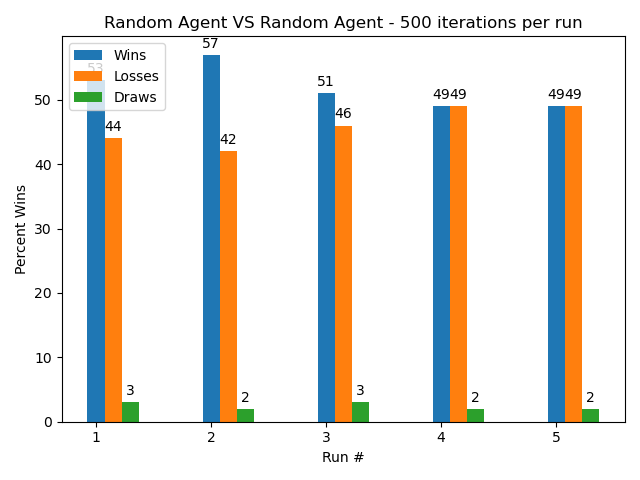
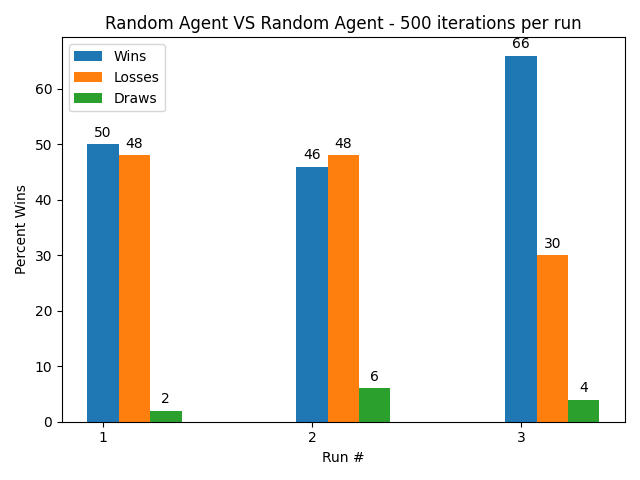
plugged in heuristic to min max function and made adjustments

diff --git a/heuristics.py b/heuristics.py
@@ -8,38 +8,41 @@ class Heuristic(Enum):
     Side_By_Side_Pawns = 2
     Distance_From_Starting_Location = 3
     Stacked_Pawns = 4
+    Piece_Could_Be_Captured = 5
 
 
 class Heuristics: 
     def __init__(self, list_of_heuristics: list(Heuristic) ):
         self.List_of_Heuristics: list(Heuristic) = list_of_heuristics
 
-    def return_heuristic_value(self, board: Board, player_color: chess.Color):
+    def return_heuristic_value(self, board: Board):
         matrix_board = self.create_matrix_from_board(board)
         heuristic_value: int = 0
         for heuristic in self.List_of_Heuristics: 
                 if heuristic == Heuristic.Maximize_Number_Of_Pieces:
-                    heuristic_value += self.number_of_pieces_greater_than_opponent(board, player_color)
+                    heuristic_value += self.number_of_pieces_greater_than_opponent(board)
                 elif heuristic == Heuristic.Keep_Pawns_Diagonally_Supported:
-                    heuristic_value += self.pawn_chain_support(matrix_board, player_color)
+                    heuristic_value += self.pawn_chain_support(matrix_board)
                 elif heuristic == Heuristic.Side_By_Side_Pawns:
-                    heuristic_value += self.pawn_side_by_side_support(matrix_board, player_color)
+                    heuristic_value += self.pawn_side_by_side_support(matrix_board)
                 elif heuristic == Heuristic.Distance_From_Starting_Location:
-                    heuristic_value += self.distance_from_opposite_side_of_board(matrix_board, player_color)
+                    heuristic_value += self.distance_from_opposite_side_of_board(matrix_board)
                 elif heuristic == Heuristic.Stacked_Pawns:
-                    heuristic_value += self.number_of_stacked_pawns(matrix_board, player_color)
+                    heuristic_value += self.number_of_stacked_pawns(matrix_board)
+                elif heuristic == Heuristic.Piece_Could_Be_Captured:
+                    heuristic_value += self.is_piece_at_risk(matrix_board)
         return heuristic_value
 
 
 
-    def number_of_pieces_greater_than_opponent(self, board: List, player_color: chess.Color):
+    def number_of_pieces_greater_than_opponent(self, board: List):
         # Takes the number of pawns and queens of the Player and subtracts the opponents pieces
-        number_of_pawns: int = len(board.pieces(chess.PAWN, player_color)) * 1
-        number_of_queens: int = len(board.pieces(chess.QUEEN, player_color)) * 10
-        number_of_opponent_pawns: int = len(board.pieces(chess.PAWN, (chess.WHITE if player_color == chess.BLACK else chess.BLACK))) * 1
-        number_of_opponent_queens: int = len(board.pieces(chess.QUEEN, (chess.WHITE if player_color == chess.BLACK else chess.BLACK))) * 10
+        number_of_pawns: int = len(board.pieces(chess.PAWN, chess.WHITE)) * 1
+        number_of_queens: int = len(board.pieces(chess.QUEEN, chess.WHITE)) * 100
+        number_of_opponent_pawns: int = len(board.pieces(chess.PAWN, chess.BLACK)) * 1
+        number_of_opponent_queens: int = len(board.pieces(chess.QUEEN, chess.BLACK)) * 100
 
-        return (number_of_pawns + number_of_queens) - (number_of_opponent_pawns + number_of_opponent_queens)
+        return ((number_of_pawns + number_of_queens) - (number_of_opponent_pawns + number_of_opponent_queens))
 
 
     def create_matrix_from_board(self, board: Board):
@@ -59,60 +62,67 @@ class Heuristics:
                     else:
                         current_row.append(chess.WHITE)
             final_board.append(current_row)
-        print(final_board)
         return final_board
 
-    def pawn_chain_support(self, matrix_board: List, player_color: chess.Color): 
+    def pawn_chain_support(self, matrix_board: List): 
         heuristic_value = 0
         for counter, row in enumerate(matrix_board):
             if(counter == 0): 
                 continue
             for element, square in enumerate(row):
-                if(square == player_color):
-                    if(element > 0 and (matrix_board[counter - 1][element - 1] == player_color)):
-                        heuristic_value += 2
-                    if(element < len(row) - 1 and (matrix_board[counter - 1][element + 1] == player_color)):
-                        heuristic_value += 2
+                if(square == chess.WHITE):
+                    if(element > 0 and (matrix_board[counter - 1][element - 1] == chess.WHITE)):
+                        heuristic_value += 1
+                    if(element < len(row) - 1 and (matrix_board[counter - 1][element + 1] == chess.WHITE)):
+                        heuristic_value += 1
         return heuristic_value
 
-    def pawn_side_by_side_support(self, matrix_board: List, player_color: chess.Color):
+    def pawn_side_by_side_support(self, matrix_board: List):
         heuristic_value = 0
         for counter, row in enumerate(matrix_board):
             for element, square in enumerate(row):
-                if(square == player_color):
-                    if(element > 0 and (matrix_board[counter][element - 1] == player_color)):
+                if(square == chess.WHITE):
+                    if(element > 0 and (matrix_board[counter][element - 1] == chess.WHITE)):
                         heuristic_value += 1
-                    if(element < len(row) - 1 and (matrix_board[counter][element + 1] == player_color)):
+                    if(element < len(row) - 1 and (matrix_board[counter][element + 1] == chess.WHITE)):
                         heuristic_value += 1
         return heuristic_value
 
-    def distance_from_opposite_side_of_board(self, matrix_board: Board, player_color: chess.Color):
+    def distance_from_opposite_side_of_board(self, matrix_board: List):
         heuristic_value = 0
         length_of_board = len(matrix_board)
-        if(player_color == chess.WHITE):
-            for counter, row in enumerate(matrix_board):
-                if(counter > (length_of_board - 2)):
-                    continue
-                for square in enumerate(row):
-                    if(square == player_color):
-                        heuristic_value += (length_of_board - counter - 2) 
-        elif(player_color == chess.BLACK):
-            for counter, row in enumerate(matrix_board):
-                if(counter < 2):
-                    continue
-                for square in enumerate(row):
-                    if(square == player_color):
-                        heuristic_value += counter - 1
-        return heuristic_value
+        for counter, row in enumerate(matrix_board):
+            if(counter > (length_of_board - 2)):
+                continue
+            for square in row:
+                if(square == chess.WHITE):
+                    heuristic_value += (length_of_board - counter - 2) 
+        return heuristic_value * 5
 
-    def number_of_stacked_pawns(self, matrix_board: Board, player_color: chess.Color):
+    def number_of_stacked_pawns(self, matrix_board: List):
         heuristic_value = 0
         for counter, row in enumerate(matrix_board):
             if(counter == 0): # skip the back row since there will be no pawns behind them 
                 continue
             for element, square in enumerate(row):
-                if(square == player_color):
-                    if(matrix_board[counter - 1][element] == player_color):
-                        heuristic_value -= 5
+                if(square == chess.WHITE):
+                    if(matrix_board[counter - 1][element] == chess.WHITE):
+                        heuristic_value -= 1
         return heuristic_value
+
+    def is_piece_at_risk(self, matrix_board: List):
+        heuristic_value: int = 0
+        for counter, row in enumerate(matrix_board):
+            if(counter == 0): # skip the back row since there will be no pawns behind them 
+                continue
+            for element, square in enumerate(row):
+                if(square == chess.WHITE):
+                    if(element > 0):
+                        if(matrix_board[counter - 1][element - 1] == chess.BLACK):
+                            heuristic_value -= 20
+                    if(element < len(row) - 1):
+                        if(matrix_board[counter - 1][element + 1] == chess.BLACK):
+                            heuristic_value -= 20
+        return heuristic_value
+
 

diff --git a/minimaxchessplayer.py b/minimaxchessplayer.py
@@ -6,6 +6,7 @@ from typing import Any
 import chess
 import numpy as np
 from chessplayer import ChessPlayer
+from heuristics import *
 
 DEPTH = 5
 MIN_DEFAULT = 99999
@@ -31,6 +32,7 @@ class Node:
         self.max = max
         self.parent = parent
 
+
     def copy(self):
         return Node(self.reward, self.board, self.move, self.win_status, self.min, self.max, self.parent)
 
@@ -38,6 +40,7 @@ class Node:
 class minimaxPlayer(ChessPlayer):
     def __init__(self, depth: int):
         self.depth = depth
+        self.heuristic_calculator = Heuristics([Heuristic.Piece_Could_Be_Captured, Heuristic.Distance_From_Starting_Location, Heuristic.Maximize_Number_Of_Pieces])
 
     def get_next_move(self, board: AIChessBoard) -> Move:
         return self.min_max(board, self.depth)
@@ -118,8 +121,10 @@ class minimaxPlayer(ChessPlayer):
 
 
     def calc_reward(self,board: AIChessBoard) -> int:
-        # Integrate heuristics
-        return 0
+        heuristic_value = self.heuristic_calculator.return_heuristic_value(board)
+        # print(heuristic_value)
+        return heuristic_value
+
 
 
     def white_wins(self, board: AIChessBoard) -> bool:
@@ -136,10 +141,10 @@ class minimaxPlayer(ChessPlayer):
     def check_terminal_state(self, board: AIChessBoard, root: Node, depth: int) -> Node:
         # Return if we hit a terminal state
         if self.white_wins(board):
-            reward = 10 if board.turn == chess.WHITE else -10
+            reward += 10 if board.turn == chess.WHITE else -10
             return Node(reward,root.board,root.move,1,MIN_DEFAULT,MAX_DEFAULT, root)
         elif self.black_wins(board):
-            reward = 10 if board.turn == chess.BLACK else -10
+            reward += 10 if board.turn == chess.BLACK else -10
             return Node(reward,root.board,root.move,-1,MIN_DEFAULT,MAX_DEFAULT, root)
         elif depth <= 0:
             reward = 0

diff --git a/aichess.py b/aichess.py
@@ -20,8 +20,8 @@ class AIChess:
         draws = 0
         for i in range(self.__iterations):
             # This is for testing until player type is incorporated into the class.
-            # player1 = minimaxPlayer(self.__depth)
-            player1 = RandomChessPlayer()
+            player1 = minimaxPlayer(self.__depth)
+            # player1 = RandomChessPlayer()
             player2 = RandomChessPlayer()
             game = Game(
                 white=player1,
